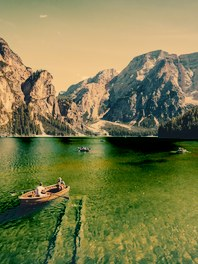
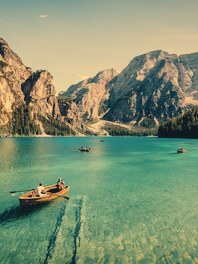
Sleepy Charlie: refit with a bounded fallback (saturated colours stay sane); held-out ΔE 2.48 vs 6.18 ungraded
Claude-Session: https://claude.ai/code/session_016kaHfBa5oKGof2zzTjQrgf

diff --git a/filmcam-android/README.md b/filmcam-android/README.md
@@ -172,7 +172,7 @@ The **Custom** tab holds creators' grades and your own LUTs.
     33³ LUT to all of them (smooth, with a bounded fallback for colours the frames never
     show). Grain and halation were measured from the same frames; there is no vignette.
   - **How close:** each frame predicted from a fit to the other seven lands at a median
-    colour error of about 2.7 (OKLab ΔE×100; around 2 is barely visible), against 6.2 for
+    colour error of about 2.5 (OKLab ΔE×100; around 2 is barely visible), against 6.2 for
     the ungraded frame. It is not exact: the PowerGrade also adjusts exposure and white
     balance per shot, and its own LUT files aren't public.
 - **Import LUT (.cube):** the last card in Custom adds any 3D `.cube` LUT as a look: one you
